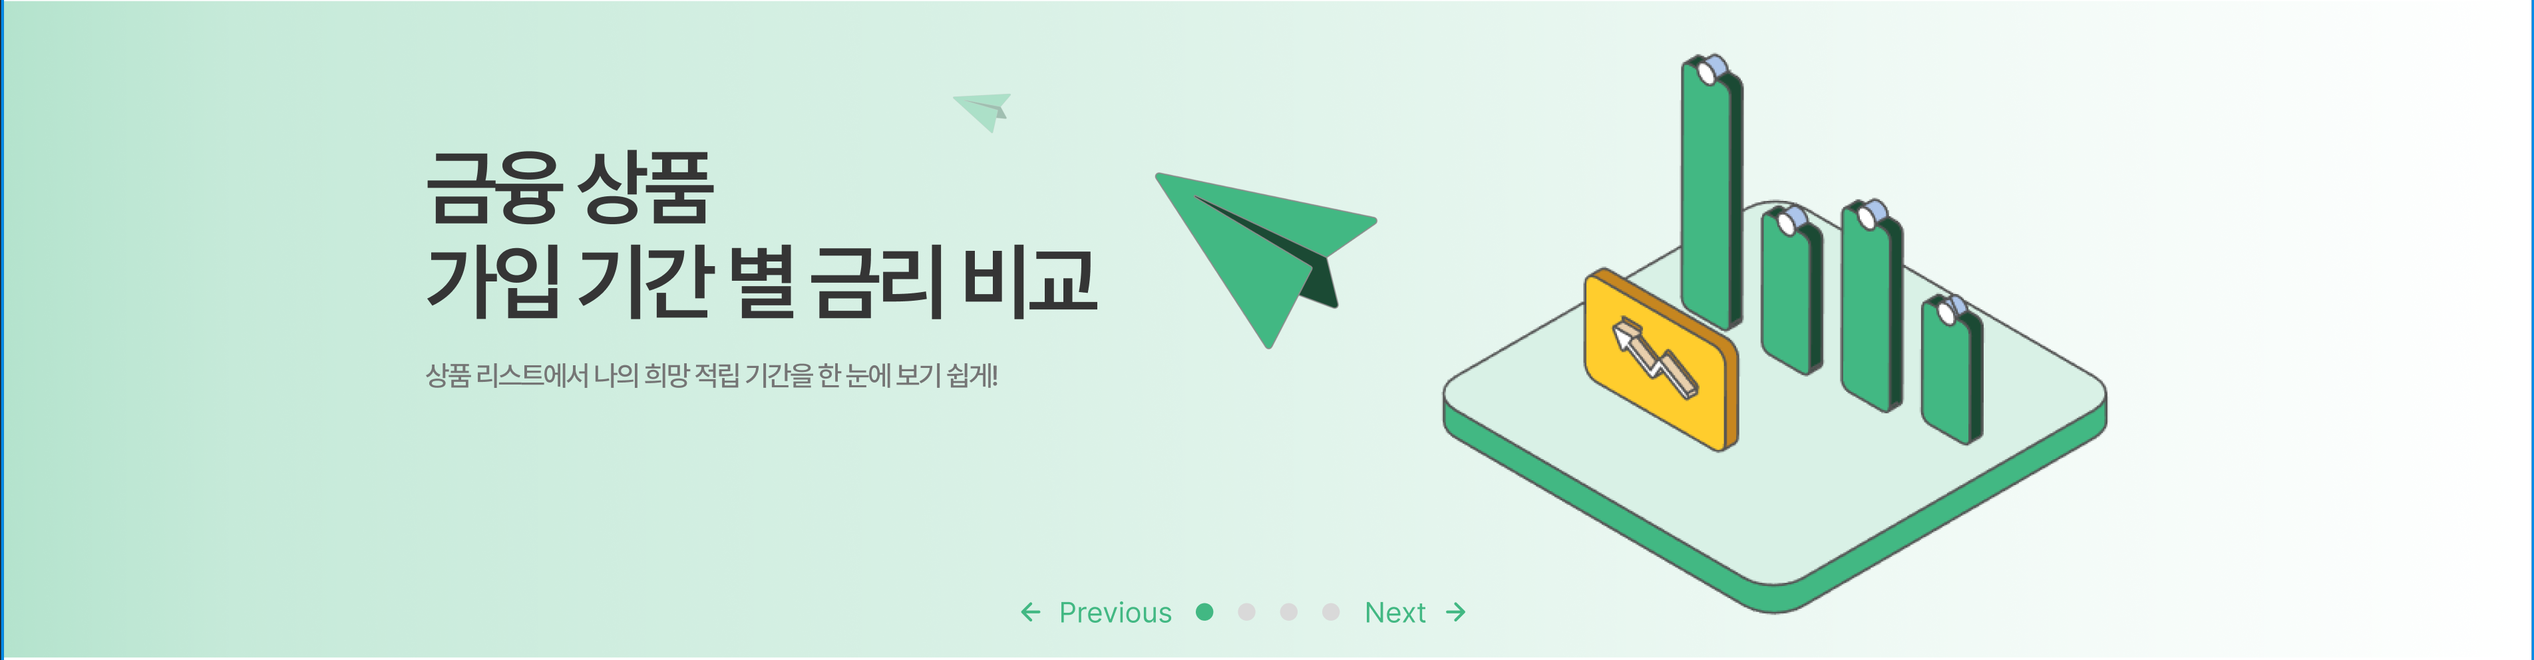
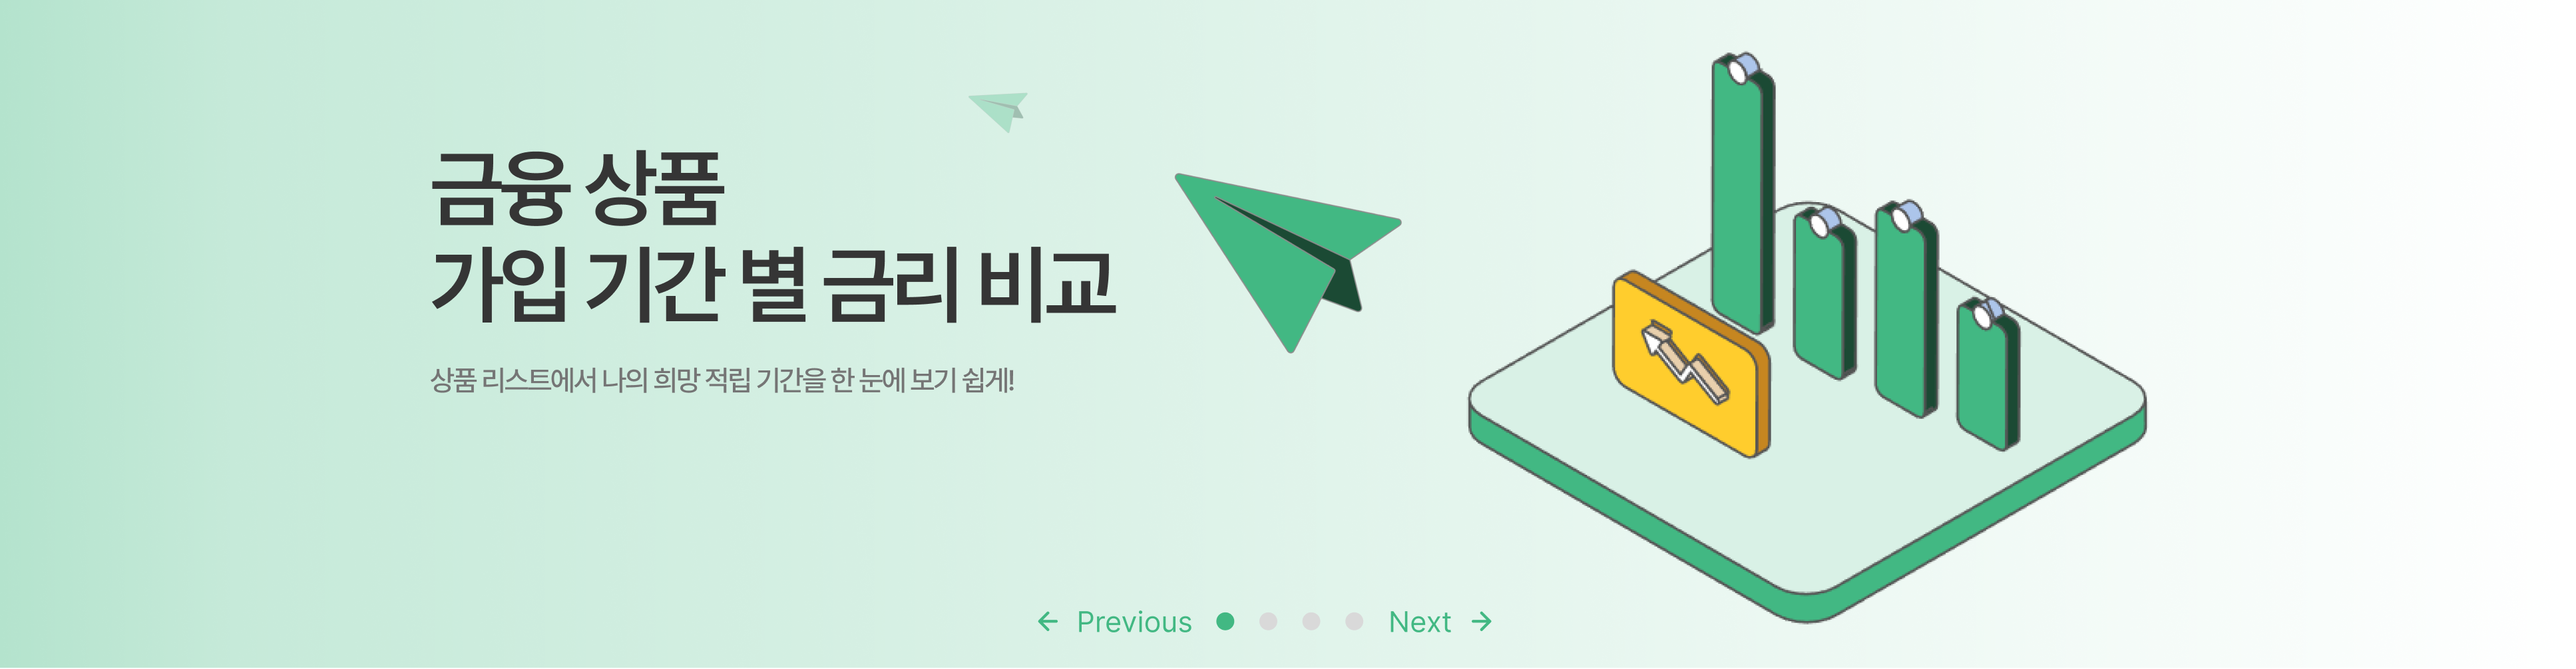
update

diff --git a/src/components/commons/footer/BottomFooter.vue b/src/components/commons/footer/BottomFooter.vue
@@ -1,0 +1,75 @@
+<template>
+  <div class="footer bg-500 text-dark py-4 mt-5">
+    <div class="container">
+      <div class="row justify-content-between">
+
+        <div class="col-md-3 mb-4 d-flex flex-column align-items-start">
+          <div class="d-flex gap-5">
+            <i class="bi bi-twitter-x fs-3"></i>
+            <i class="bi bi-instagram fs-3"></i>
+            <i class="bi bi-youtube fs-3"></i>
+            <i class="bi bi-linkedin fs-3"></i>
+          </div>
+        </div>
+
+        <div v-for="item in footers" class="col-md-3">
+          <h6 class="fw-bold">{{ item.type }}</h6>
+          <ul class="list-unstyled">
+            <li v-for="v in item.li">{{ v }}</li>
+          </ul>
+        </div>
+
+      </div>
+    </div>
+  </div>
+</template>
+
+<script setup>
+
+const footers = [
+  {
+    type: 'Use cases',
+    li: [
+      'UI design',
+      'UX design',
+      'Wireframing',
+      'Diagramming',
+      'Brainstorming',
+      'Online whiteboard',
+      'Team collaboration',
+    ]
+  },
+  {
+    type: 'Explore',
+    li: [
+      'Design',
+      'Prototyping',
+      'Development features',
+      'Design systems',
+      'Collaboration features',
+      'Design process',
+      'FigJam',
+    ]
+  },
+  {
+    type: 'Resources',
+    li: [
+      'Blog',
+      'Best practices',
+      'Colors',
+      'Color wheel',
+      'Support',
+      'Developers',
+      'Resource library',
+    ]
+  },
+]
+
+</script>
+
+<style scoped>
+/* .footer {
+  border-top-left-radius: 1rem;
+  border-top-right-radius: 1rem;
+} */
+</style>

diff --git a/src/components/home/HomeCommunity.vue b/src/components/home/HomeCommunity.vue
@@ -1,0 +1,30 @@
+<template>
+  <h3 class="color-500">Community</h3>
+  <!-- <div class="card mb-3"> -->
+  <div class="row gx-5">
+    <div class="col-md-8">
+      <div class="card-body">
+        <h5 class="card-title">{{ issue.title }}</h5>
+        <p class="card-text"><small class="text-body-secondary">{{ issue.subTitle }}</small></p>
+        <p class="card-text">{{ issue.body }}</p>
+      </div>
+    </div>
+    <div class="col-md-4">
+      <img :src="signature" class="img-fluid rounded-start" alt="...">
+    </div>
+  </div>
+  <!-- </div> -->
+</template>
+
+<script setup>
+import signature from '@/assets/images/signature.png'
+
+const issue = {
+  title: 'Heading',
+  subTitle: 'Subheading',
+  body: 'Excepteur efficient emerging, minim veniam anim aute carefully curated Ginza conversation exquisite perfect nostrud nisi intricate Content. Qui  international first-class nulla ut. Punctual adipisicing, essential lovely queen tempor eiusmod irure. Exclusive izakaya charming Scandinavian impeccable aute quality of life soft power pariatur Melbourne occaecat discerning. Qui wardrobe aliquip, et Porter destination Toto remarkable officia Helsinki excepteur Basset hound. Zürich sleepy perfect consectetur.'
+}
+
+</script>
+
+<style scoped></style>

diff --git a/src/views/HomeView.vue b/src/views/HomeView.vue
@@ -2,14 +2,24 @@
   <HomeImage />
 
   <div class="container">
-    <HomeServices />
+    <div class="section-spacing">
+      <HomeServices />
+    </div>
+    <div class="section-spacing">
+      <HomeCommunity />
+    </div>
   </div>
 </template>
 
 <script setup>
 import HomeImage from '@/components/home/HomeImage.vue';
 import HomeServices from '@/components/home/HomeServices.vue';
+import HomeCommunity from '@/components/home/HomeCommunity.vue';
 
 </script>
 
-<style scoped></style>
+<style scoped>
+.section-spacing {
+  margin: 3rem 0;
+}
+</style>

diff --git a/index.html b/index.html
@@ -8,6 +8,8 @@
   <title>Vite App</title>
   <link href="https://cdn.jsdelivr.net/npm/bootstrap@5.3.6/dist/css/bootstrap.min.css" rel="stylesheet"
     integrity="sha384-4Q6Gf2aSP4eDXB8Miphtr37CMZZQ5oXLH2yaXMJ2w8e2ZtHTl7GptT4jmndRuHDT" crossorigin="anonymous">
+  <link rel="stylesheet" href="https://cdn.jsdelivr.net/npm/bootstrap-icons@1.11.3/font/bootstrap-icons.css"
+    integrity="sha384-tViUnnbYAV00FLIhhi3v/dWt3Jxw4gZQcNoSCxCIFNJVCx7/D55/wXsrNIRANwdD" crossorigin="anonymous">
 </head>
 
 <body>

diff --git a/src/App.vue b/src/App.vue
@@ -5,10 +5,14 @@
   <main>
     <RouterView />
   </main>
+  <footer>
+    <BottomFooter />
+  </footer>
 </template>
 
 <script setup>
-import NavBar from '@/components/commons/nav/NavBar.vue';
+import NavBar from '@/components/commons/header/NavBar.vue';
+import BottomFooter from '@/components/commons/footer/BottomFooter.vue';
 import { RouterView } from 'vue-router';
 
 </script>

diff --git a/src/components/home/HomeImage.vue b/src/components/home/HomeImage.vue
@@ -21,9 +21,8 @@
 import img1 from '@/assets/images/1.png'
 import img2 from '@/assets/images/2.png'
 import img3 from '@/assets/images/3.png'
-import img4 from '@/assets/images/4.png'
 
-const images = [img1, img2, img3, img4]
+const images = [img1, img2, img3]
 </script>
 
 <style lang="scss" scoped>

diff --git a/src/components/home/HomeServices.vue b/src/components/home/HomeServices.vue
@@ -1,5 +1,6 @@
 <template>
   <h3 class="color-500">Services</h3>
+
   <div class="row row-cols-1 row-cols-md-3 g-4">
     <div v-for="service in services" class="col">
       <div class="card" :class="service.bg">
